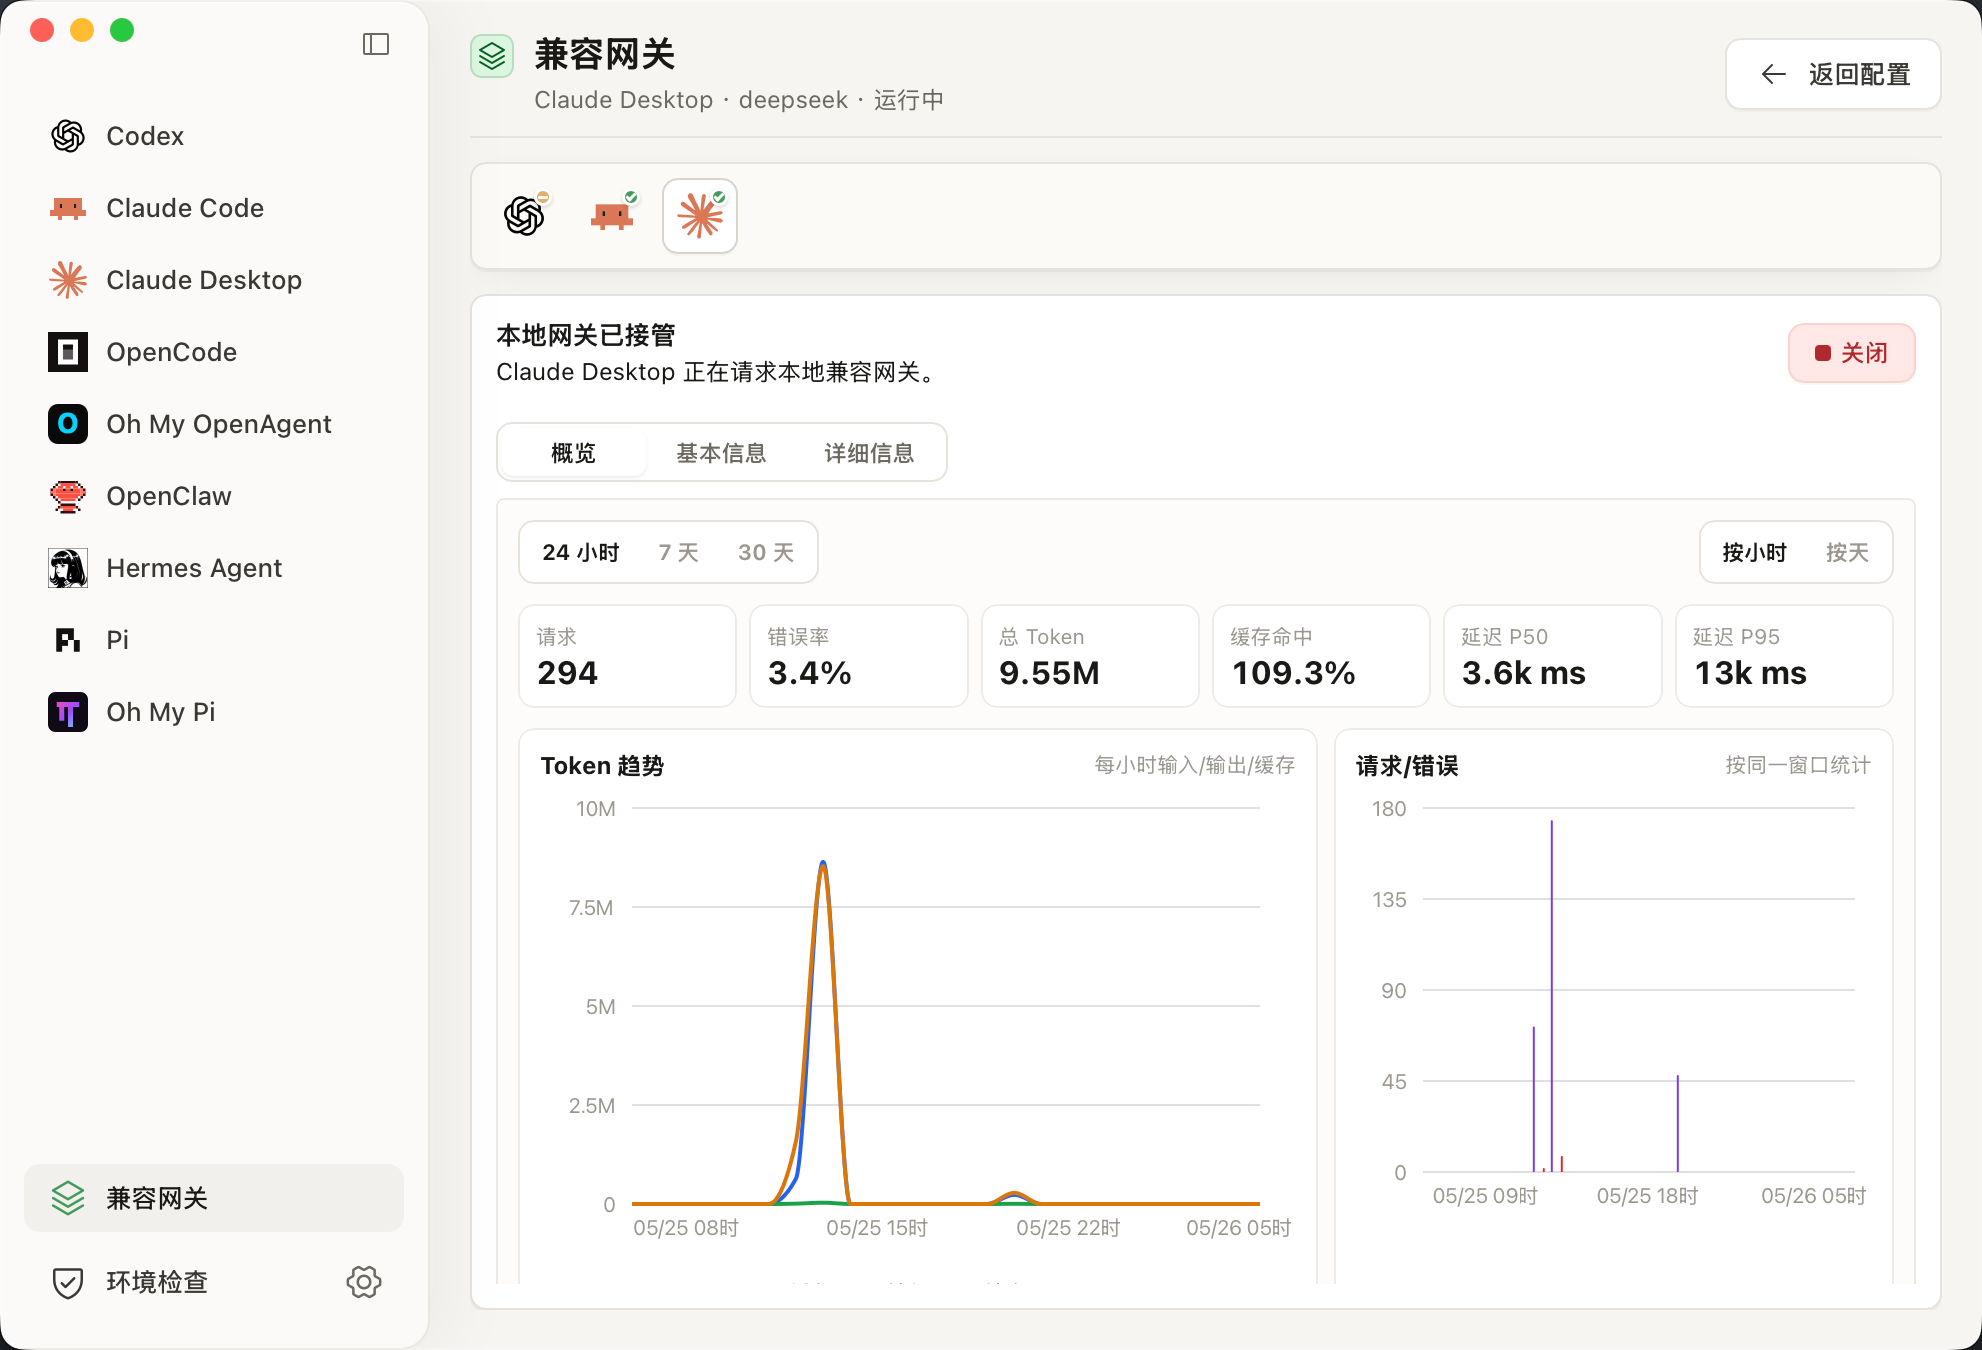
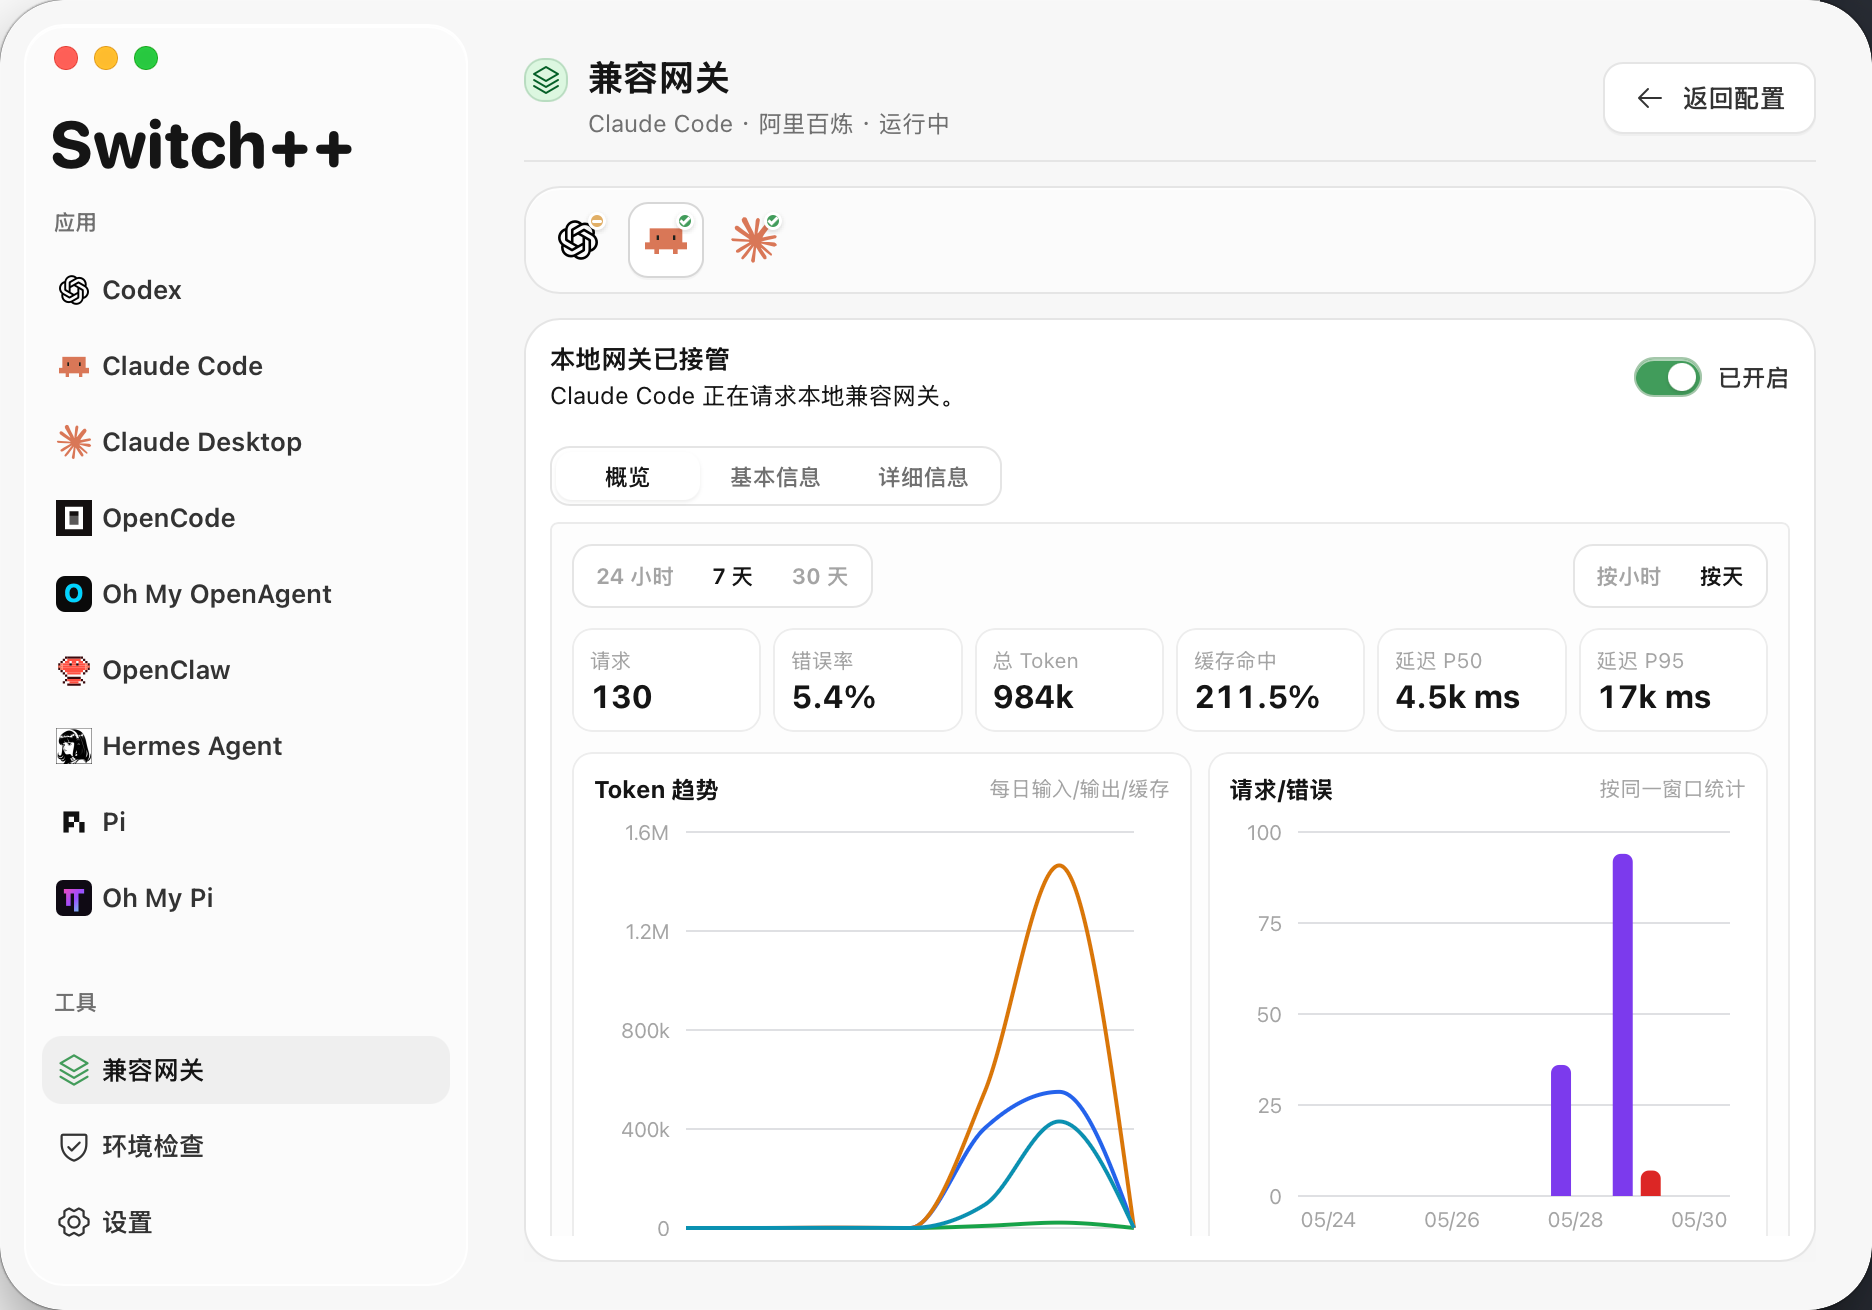
Update v1.0.2 release notes and screenshots

diff --git a/CHANGELOG.md b/CHANGELOG.md
@@ -2,40 +2,33 @@
 
 ## v1.0.2 - 2026-05-30
 
-Switch++ 小版本更新。本次重点打磨桌面端外观、窗口比例、侧栏密度、滚动体验和细节动效，让应用更像一个紧凑、原生、可长期停留在桌面的工具。
+Switch++ 小版本更新。本次重点解决 Claude Code 三方模型接入、兼容网关判断、菜单栏图标和本地化文案中的实际问题，让配置写入后更容易判断“是否需要网关、为什么失败、该如何验证”。
 
-### 功能亮点 / Highlights
+### 修复与改进 / Fixes & Improvements
 
-- 重新校准默认窗口尺寸为 `936x655`，保持约 `1.43` 的宽高比，并限制最小尺寸，避免工具窗口被缩到不可用状态。
-- 将左侧侧栏固定为窗口宽度的 25%，在默认尺寸下完整展示应用与工具菜单，减少默认进入时的滚动需求。
-- 优化配置列表顶部栏在最小尺寸下的收缩规则，保留右侧操作按钮单行显示，标题和描述在空间不足时自然省略。
-- 隐藏内部滚动条但保留滚动能力，让侧栏、配置列表、网关详情和配置编辑区域视觉上更干净。
-- 统一窗口、面板、卡片、按钮、菜单和弹出层的圆角 token，保持更一致的 macOS 工具应用质感。
-- 为刷新、网关启停、更多菜单、更新提示和菜单项加入克制微动效，同时遵守系统的 reduced motion 偏好。
-- 改进菜单栏图标为独立的 switch 模板图标，避免 Dock 图标和菜单栏图标混用导致显示成黑块或比例失真。
-- 修正英文模式下的短状态与动作翻译，避免出现中英混排或半翻译状态。
+- 修复 Claude Code 使用部分三方 Anthropic-compatible 端点时容易直连失败的问题：Switch++ 会识别需要本地兼容网关的配置，并提示通过本地网关完成模型映射、请求清洗、工具 schema 压缩和兼容转发。
+- 改进 Claude Code 兼容网关状态说明，不再只展示“建议/必须开启”，而是拆分说明当前问题、开启收益和仍有限制，帮助判断失败来自厂商端点、协议兼容还是本地配置。
+- 修复 Claude Code / Claude Desktop 网关启停语义，支持用户在网关页手动关闭本地兼容网关，并用 switch 开关展示当前启停状态。
+- 修复配置应用后的提示文案，去掉“写入磁盘”等偏实现细节的表述，改为描述配置已写入以及需要重启目标应用后生效。
+- 修复英文模式下的中英混排问题，包括网关状态、刷新按钮、短状态和动作文案，避免出现 `已Start` 这类半翻译状态。
+- 修复菜单栏图标显示为黑块、比例过细或与 Dock 图标混用的问题，改为独立的 switch 模板图标。
+- 修复 Windows release 打包脚本对 `PATH="$HOME/.cargo/bin:$PATH"` 的依赖，避免 Windows 构建找不到 Tauri 命令。
+- 补齐 CI 对私有核心和 Linux Tauri 依赖的检查，避免本地验证通过但主分支 CI 因缺少私有核心或系统库失败。
+- 全新 UI 升级提升视觉体验。
 
 ### 界面预览 / Screenshots
 
-**Codex Desktop 使用 DeepSeek 三方模型 / Codex Desktop with a DeepSeek third-party model**
+| Codex 配置列表 / Codex profiles |
+| --- |
+| ![Codex 配置列表](https://raw.githubusercontent.com/sssstwee/switch-plus-plus/main/docs/assets/screenshots/switchpp-codex-profiles.png) |
 
-![Codex Desktop 使用 DeepSeek 三方模型](https://raw.githubusercontent.com/sssstwee/switch-plus-plus/v1.0.2/docs/assets/screenshots/switchpp-codex-desktop-deepseek.png)
+| 兼容网关概览 / Gateway overview |
+| --- |
+| ![兼容网关概览](https://raw.githubusercontent.com/sssstwee/switch-plus-plus/main/docs/assets/screenshots/switchpp-gateway-overview.png) |
 
-| Codex 配置列表 / Codex profiles | 新增 Codex 配置 / New Codex profile |
-| --- | --- |
-| ![Codex 配置列表](https://raw.githubusercontent.com/sssstwee/switch-plus-plus/v1.0.2/docs/assets/screenshots/switchpp-codex-profiles.png) | ![新增 Codex 配置](https://raw.githubusercontent.com/sssstwee/switch-plus-plus/v1.0.2/docs/assets/screenshots/switchpp-codex-new-profile.png) |
-
-| Claude Desktop 配置切换 / Claude Desktop profiles | 本地环境检查 / Environment check |
-| --- | --- |
-| ![Claude Desktop 配置切换](https://raw.githubusercontent.com/sssstwee/switch-plus-plus/v1.0.2/docs/assets/screenshots/switchpp-claude-desktop-profiles.png) | ![本地环境检查](https://raw.githubusercontent.com/sssstwee/switch-plus-plus/v1.0.2/docs/assets/screenshots/switchpp-environment-check.png) |
-
-| 兼容网关概览 / Gateway overview | 兼容网关调用记录 / Gateway request history |
-| --- | --- |
-| ![兼容网关概览](https://raw.githubusercontent.com/sssstwee/switch-plus-plus/v1.0.2/docs/assets/screenshots/switchpp-gateway-overview.png) | ![兼容网关调用记录](https://raw.githubusercontent.com/sssstwee/switch-plus-plus/v1.0.2/docs/assets/screenshots/switchpp-gateway-requests.png) |
-
-| Claude Desktop 模型菜单 / Claude Desktop model menu | Claude Desktop 经由本地网关响应 / Claude Desktop through local gateway |
-| --- | --- |
-| ![Claude Desktop 模型菜单](https://raw.githubusercontent.com/sssstwee/switch-plus-plus/v1.0.2/docs/assets/screenshots/switchpp-claude-model-menu.png) | ![Claude Desktop 经由本地网关响应](https://raw.githubusercontent.com/sssstwee/switch-plus-plus/v1.0.2/docs/assets/screenshots/switchpp-claude-gateway-chat.png) |
+| 本地环境检查 / Environment check |
+| --- |
+| ![本地环境检查](https://raw.githubusercontent.com/sssstwee/switch-plus-plus/main/docs/assets/screenshots/switchpp-environment-check.png) |
 
 ### macOS 首次启动说明 / macOS First-Launch Notice
 